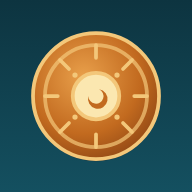
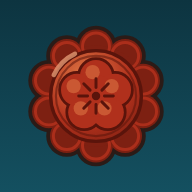
fix(match3-quest): reprendre le gâteau de lune rouge du jeu pour l'icône
Claude-Session: https://claude.ai/code/session_0145pwWgMGpr1ALJz9LQJC5f

diff --git a/match3-quest/SPECS.md b/match3-quest/SPECS.md
@@ -651,4 +651,4 @@ Spécifications et journal de session de `match3-quest/`.
 ## Mini-annonces avant résolution du plateau
 - `checkMatches` (board.js) attend la disparition de toute mini-annonce de sort/dégâts (`.attack-overlay`, fermeture auto ou par clic, filet de 20 s) avant de résoudre ou d'enchaîner les tuiles.
 
-- 2026-11-04 (icône gâteau de lune, launcher d'abord) : à la demande de l'utilisateur. **Icône** : `icon.svg` redessiné en gâteau de lune (galette ambre, bordure et motif or, jaune d'œuf central avec croissant) sur fond teal, plus `icon-192.png` / `icon-512.png` (PNG, `any maskable`) ; `index.html` déclare désormais le favicon (SVG + PNG) et `apple-touch-icon`, `manifest.json` liste les trois icônes. **Démarrage** : le launcher (`playTitleScreen`) s'affiche immédiatement au lieu d'attendre la fin du chargement et de l'animation d'arrivée dans le biome ; l'écran de chargement initial est masqué d'emblée et `loader.js` expose `setLoadingScreenSuppressed` (`withLoadingScreen` exécute alors sa tâche sans écran ni animation de biome ; `prepareRegion` ne télécharge pas la boucle du biome). Le chargement des dessins (cœur + région de reprise) se fait en arrière-plan pendant le launcher ; si le joueur touche avant la fin, l'écran de chargement classique réapparaît jusqu'à ce que tout soit prêt. Sous automate (`navigator.webdriver`) le comportement reste inchangé.
+- 2026-11-04 (icône gâteau de lune, launcher d'abord) : à la demande de l'utilisateur. **Icône** : `icon.svg` redessiné en gâteau de lune rouge du jeu (le dessin de la tuile `sprites/tiles/tile-red.svg`) sur fond teal, plus `icon-192.png` / `icon-512.png` (PNG, `any maskable`) ; `index.html` déclare désormais le favicon (SVG + PNG) et `apple-touch-icon`, `manifest.json` liste les trois icônes. **Démarrage** : le launcher (`playTitleScreen`) s'affiche immédiatement au lieu d'attendre la fin du chargement et de l'animation d'arrivée dans le biome ; l'écran de chargement initial est masqué d'emblée et `loader.js` expose `setLoadingScreenSuppressed` (`withLoadingScreen` exécute alors sa tâche sans écran ni animation de biome ; `prepareRegion` ne télécharge pas la boucle du biome). Le chargement des dessins (cœur + région de reprise) se fait en arrière-plan pendant le launcher ; si le joueur touche avant la fin, l'écran de chargement classique réapparaît jusqu'à ce que tout soit prêt. Sous automate (`navigator.webdriver`) le comportement reste inchangé.
